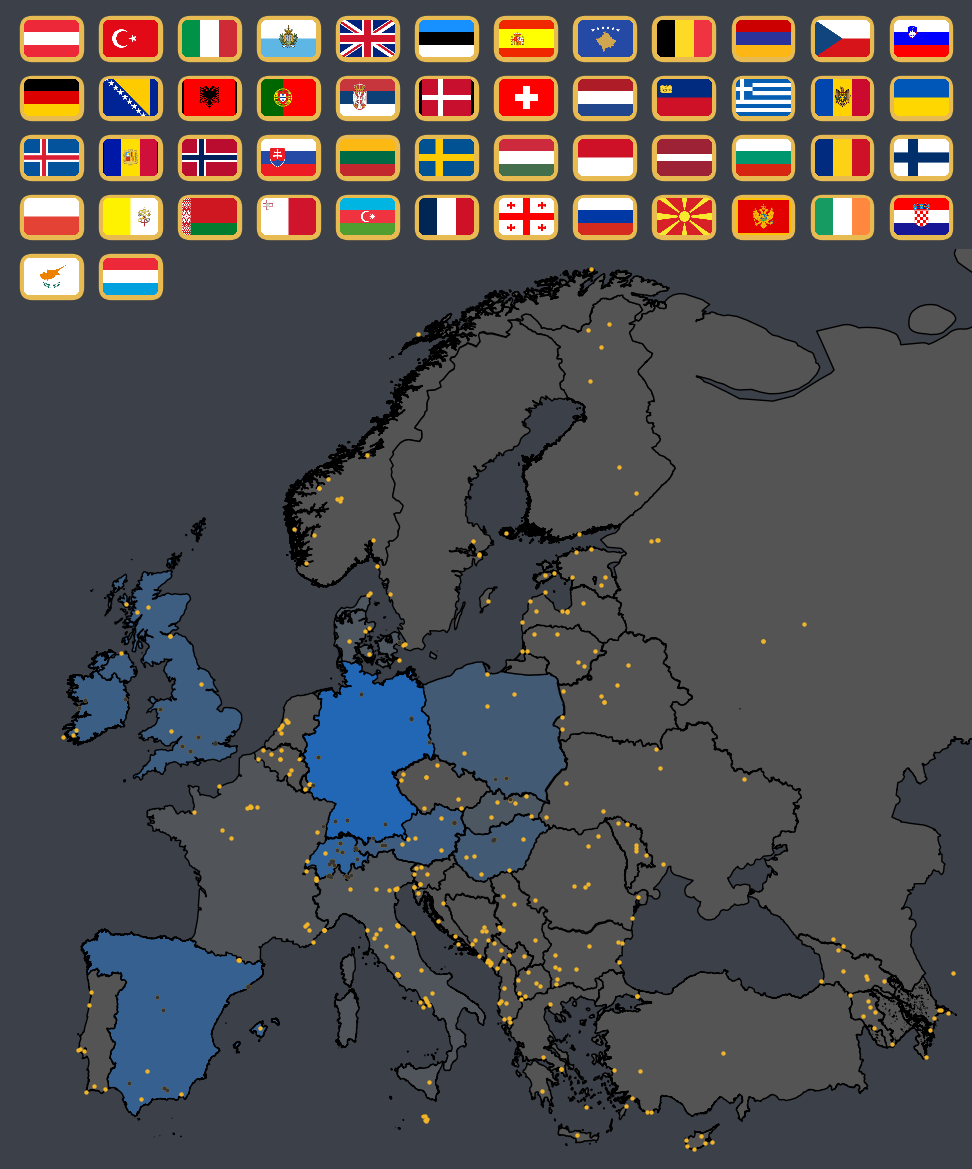
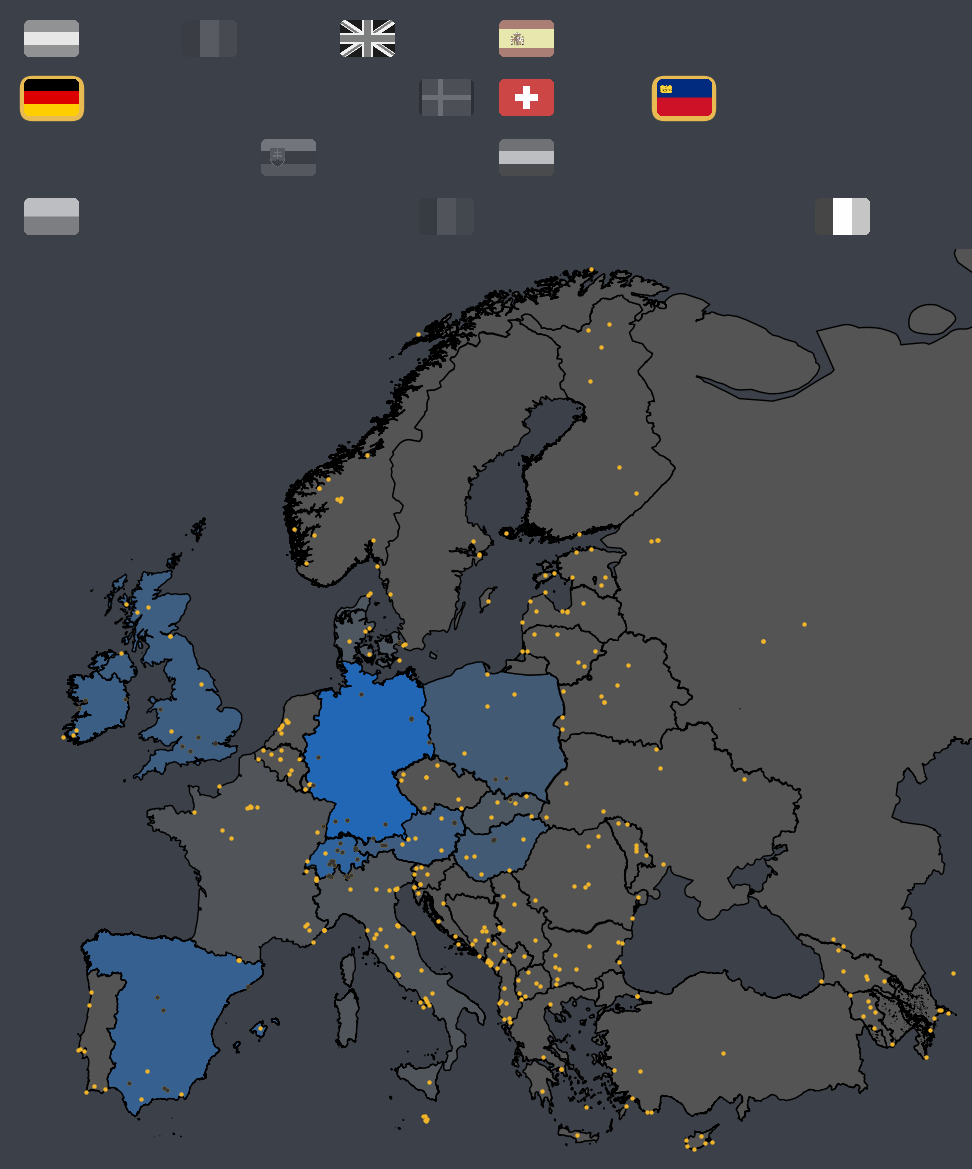
add maps png

Changed region(s): [[0.0, 0.0, 0.9877, 0.2772]]

diff --git a/main.py b/main.py
@@ -46,13 +46,13 @@ plot_manager = PlotManager(
 
 # Add first plot
 current_date = points_sorted['date'].min() - datetime.timedelta(days=1)
-#plot_manager.generate_plot(current_date, points_sorted.iloc[0], copy=True)
+plot_manager.generate_plot(current_date, points_sorted.iloc[0], copy=True)
 
 # Plot all dates
 for _, row in points_sorted.iterrows():
     current_date = row['date']
     if pd.notna(current_date) and current_date != old_date:
-        #plot_manager.generate_plot(current_date, row)
+        plot_manager.generate_plot(current_date, row)
         old_date = current_date
 
 # Create Last Plot

diff --git a/plotting/plotting_manager.py b/plotting/plotting_manager.py
@@ -121,7 +121,7 @@ class PlotManager:
         for i, file in enumerate(png_files):
             frameon = False
 
-            ratio = 1 #self.ratios[file[:2]]
+            ratio = self.ratios[file[:2]]
             if ratio == 1:
                 frameon = True
 
